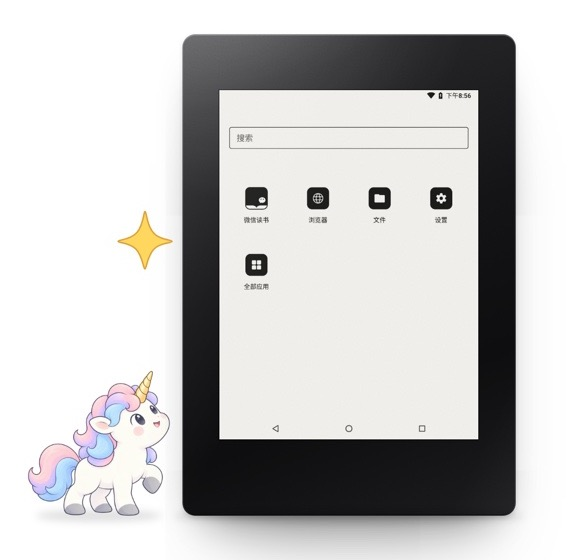
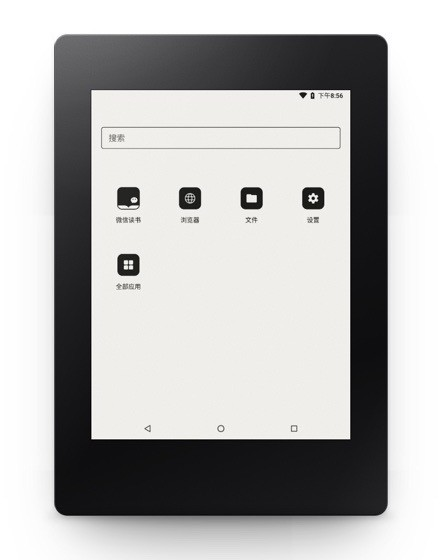
README: 发行后的内容、顶图去掉独角兽让 Kindle 居中、排版留出空间
- 最新进展表填上 v0.1.0 的发行日期；浏览器那条写明这一版保持 Chromium 128。
- 顶图去掉独角兽和星星，Kindle 居中。
- 列表项之间留空、粗体标题单独一行，长段落和安装步骤拆短，致谢按类分组。两语同样处理。
- 链接全部核过：仓库内的都在，外部地址都能打开，官网锚点都对。

diff --git a/README.en.md b/README.en.md
@@ -7,7 +7,9 @@
   </a>
 </h1>
 
-<p align="center"><b>Wake your Kindle.</b> Put Android on your Kindle, and a whole new world of reading lights up.</p>
+<p align="center"><b>Wake your Kindle.</b><br>Put Android on your Kindle, and a whole new world of reading lights up.</p>
+
+<br>
 
 <!-- The links go to /releases, not /releases/latest: GitHub's latest means the
      latest full release, so while a version is out as a pre-release it still points
@@ -26,11 +28,15 @@
   <a href="README.md">中文</a>
 </p>
 
-<p align="center"><a href="https://readom.app"><img src="docs/img/hero.jpg" alt="Readom's home screen on a Kindle Paperwhite 3, with the unicorn and a star beside it" width="380"></a></p>
+<br>
 
-The demo, the download and an illustrated install guide are on the website: **[readom.app](https://readom.app)**.
+<p align="center"><a href="https://readom.app"><img src="docs/img/hero.jpg" alt="Readom's home screen on a Kindle Paperwhite 3" width="340"></a></p>
 
-For now it runs on the Kindle Paperwhite 3 (7th generation) only, and the Kindle's own system stays.
+<br>
+
+<p align="center">The demo, the download and an illustrated install guide are on the website: <b><a href="https://readom.app">readom.app</a></b><br>For now it runs on the Kindle Paperwhite 3 (7th generation) only, and the Kindle's own system stays.</p>
+
+<br>
 
 ## Latest progress
 
@@ -38,7 +44,7 @@ For now it runs on the Kindle Paperwhite 3 (7th generation) only, and the Kindle
 
 | Release | Date | What it brought |
 |---|---|---|
-| v0.1.0 | not yet released | The first public release: Android 8.1 on the Kindle Paperwhite 3, with WeRead in one tap, the EinkBro browser, the pinyin keyboard and the sleep screen, installed and upgraded on the Kindle itself |
+| v0.1.0 | 2026‑11‑04 | The first public release: Android 8.1 on the Kindle Paperwhite 3, with WeRead in one tap, the EinkBro browser, the pinyin keyboard and the sleep screen, installed and upgraded on the Kindle itself |
 
 What each release changed, and how far it was verified on the device, is in full in [CHANGELOG.en.md](CHANGELOG.en.md); the website's [changelog](https://readom.app/#log) and [GitHub Releases](https://github.com/hbyxabc/readom/releases) are written from it.
 
@@ -50,7 +56,9 @@ Readom is an Android system made for the Kindle. It brings Android 8.1 (AOSP) to
 
 The name is Read and Freedom put together: what you read, which app you read it in, and on which device, is up to you.
 
-It started because I wanted to read WeRead, legitimately, on my Kindle, without importing books one by one and without pirated ones. After jailbreaking I tried KOReader with a WeRead plugin, and it was miserable; Tencent makes an e-ink edition, but it needs Android 7.0 or later, and every Android for the Kindle was too old. So one person, with a few weeks' worth of tokens, brought a full Android system up on a Kindle. I believe that in the age of AI, old devices gathering dust can be useful again, and Readom starts with this Kindle.
+It started because I wanted to read WeRead, legitimately, on my Kindle, without importing books one by one and without pirated ones. After jailbreaking I tried KOReader with a WeRead plugin, and it was miserable; Tencent makes an e-ink edition, but it needs Android 7.0 or later, and every Android for the Kindle was too old.
+
+So one person, with a few weeks' worth of tokens, brought a full Android system up on a Kindle. I believe that in the age of AI, old devices gathering dust can be useful again, and Readom starts with this Kindle.
 
 ## What Readom does
 
@@ -71,27 +79,50 @@ It started because I wanted to read WeRead, legitimately, on my Kindle, without 
 
 ### Features
 
-- **WeRead in one tap**: once Wi-Fi is on, the system downloads the e-ink edition from Tencent's own address, checks Tencent's signature, and installs it, with no computer involved.
-- **A newer way to browse the web**: EinkBro, an open-source browser made for e-ink, comes installed, and the web engine went from the Chromium 61 that Android 8.1 ships (2017) to Chromium 128 (2024). AOSP later published official builds that still support Android 8, up to Chromium 138 (2025); whether to move to one is not decided yet.
-- **Better first guesses in pinyin**: rime-ice took the dictionary from 65,000 entries to more than 140,000, and on the same set of 110 test inputs the first candidate went from right 84 times to right 97 times; the layout is redrawn for e-ink.
-- **Made for the Kindle's own hardware**: front light, power key, battery, Wi-Fi and USB file transfer all work; close a magnetic cover and it sleeps, open it and it wakes.
-- **Back to the Kindle any time**: hold the power key and choose "Restart to Kindle"; if the system keeps failing, it goes back to the Kindle on its own, without wiping your data.
-- **Sleep screen**: when the screen turns off, it shows a unicorn reading. It is there first because it is nice to look at, so you'd want to pick the Kindle up every time; it also covers what you were reading, since an e-ink screen keeps its last image with the power off. The theme comes from a line I love: "Reading knows no forbidden zones".
+- **WeRead in one tap**<br>
+  once Wi-Fi is on, the system downloads the e-ink edition from Tencent's own address, checks Tencent's signature, and installs it, with no computer involved.
+
+- **A newer way to browse the web**<br>
+  EinkBro, an open-source browser made for e-ink, comes installed, and the web engine went from the Chromium 61 that Android 8.1 ships (2017) to Chromium 128 (2024). AOSP later published official builds that still support Android 8, up to Chromium 138 (2025); this release stays on 128.
+
+- **Better first guesses in pinyin**<br>
+  rime-ice took the dictionary from 65,000 entries to more than 140,000, and on the same set of 110 test inputs the first candidate went from right 84 times to right 97 times; the layout is redrawn for e-ink.
+
+- **Made for the Kindle's own hardware**<br>
+  front light, power key, battery, Wi-Fi and USB file transfer all work; close a magnetic cover and it sleeps, open it and it wakes.
+
+- **Back to the Kindle any time**<br>
+  hold the power key and choose "Restart to Kindle"; if the system keeps failing, it goes back to the Kindle on its own, without wiping your data.
+
+- **Sleep screen**<br>
+  when the screen turns off, it shows a unicorn reading. It is there first because it is nice to look at, so you'd want to pick the Kindle up every time; it also covers what you were reading, since an e-ink screen keeps its last image with the power off. The theme comes from a line I love: "Reading knows no forbidden zones".
 
 <p align="center"><img src="docs/img/sleep-en.webp" width="300" alt="Sleep screen: a unicorn reading on top of the globe, with books flying around it, under the line &quot;Reading knows no forbidden zones&quot;"></p>
 
 ### Performance
 
-- **Apps install over ten times faster**: apps are compiled differently, and installing a large one like WeRead went from more than twenty minutes to about a minute and a half.
-- **Slimmed for 512 MB of memory**: it starts from AOSP's smallest product configuration with Android Go's low-memory mode on, carries no phone or camera apps, and drops the settings for hardware the device does not have; only Chinese and English fonts are kept, from 173 files and 43 MB down to 37 files and 33 MB, so the font families loaded at every start went from 116 to 15.
-- **Upgrades in five minutes**: an upgrade replaces only the system image, and installed apps and data stay as they are; the first install takes about 15 minutes, each upgrade after it about 5.
+- **Apps install over ten times faster**<br>
+  apps are compiled differently, and installing a large one like WeRead went from more than twenty minutes to about a minute and a half.
+
+- **Slimmed for 512 MB of memory**<br>
+  it starts from AOSP's smallest product configuration with Android Go's low-memory mode on, carries no phone or camera apps, and drops the settings for hardware the device does not have; only Chinese and English fonts are kept, from 173 files and 43 MB down to 37 files and 33 MB, so the font families loaded at every start went from 116 to 15.
+
+- **Upgrades in five minutes**<br>
+  an upgrade replaces only the system image, and installed apps and data stay as they are; the first install takes about 15 minutes, each upgrade after it about 5.
 
 ### Interface
 
-- **Redrawn for e-ink**: thin black lines instead of shadows and gradients, no dimming behind dialogs, no animations at all.
-- **Pages turn without a black flash**: pages turn with a refresh that does not flash, and the whole screen is cleared of ghosting only every 20 pages.
-- **Whiter, cleaner pages**: grey levels were set again from reading research and measurements of this panel, and on 11 everyday pages pure white now covers 92% to 100%.
-- **What you use is close at hand**: one home screen holds it, swipe up for all apps, the search box searches the web; one pull down and the front light slider is there.
+- **Redrawn for e-ink**<br>
+  thin black lines instead of shadows and gradients, no dimming behind dialogs, no animations at all.
+
+- **Pages turn without a black flash**<br>
+  pages turn with a refresh that does not flash, and the whole screen is cleared of ghosting only every 20 pages.
+
+- **Whiter, cleaner pages**<br>
+  grey levels were set again from reading research and measurements of this panel, and on 11 everyday pages pure white now covers 92% to 100%.
+
+- **What you use is close at hand**<br>
+  one home screen holds it, swipe up for all apps, the search box searches the web; one pull down and the front light slider is there.
 
 ## Installing Readom
 
@@ -104,18 +135,28 @@ It started because I wanted to read WeRead, legitimately, on my Kindle, without 
 
 On the wrong model or firmware, the installer shows E101 and stops without changing any file.
 
-1. Download `Readom.sh` (about 8 MB) from the website, [readom.app](https://readom.app/#pick), or from [GitHub Releases](https://github.com/hbyxabc/readom/releases) — the same file in both places. The installer carries both addresses and tries them in turn; if neither delivers, download the offline package on the computer as well, which both places also have.
+1. Download `Readom.sh` (about 8 MB): the website, [readom.app](https://readom.app/#pick), and [GitHub Releases](https://github.com/hbyxabc/readom/releases) have the same file.
+
 2. Connect the Kindle with a cable, copy the file into the `documents` folder on the Kindle drive, eject, unplug.
+
 3. Tap "Readom" in the Kindle library.
-4. Checking, downloading, verifying and writing all happen on the Kindle. A first install takes about 15 minutes (measured at 15 min 14 s on 2026-11-01, the 188 MB download and the unpacking included), then Android starts on its own.
+
+4. Checking, downloading, verifying and writing all happen on the Kindle. A first install takes about 15 minutes, then Android starts on its own.
+
+The installer carries both download addresses, the website's and GitHub's, and tries them in turn. If neither delivers, download the offline package on the computer as well (both places have it) and copy it in with `Readom.sh`.
 
 The website has an illustrated install guide, and a way to have an AI walk you through it: [readom.app/#guide](https://readom.app/#guide). Upgrades, the offline package and error codes are in the [install guide](docs/install.en.md).
 
 ### Back to the Kindle, and uninstalling
 
-- **Back to the Kindle**: hold the power key and choose "Restart to Kindle". To go back to Android, tap "Readom" in the library.
-- **If it is stuck**: hold the power key down until the screen changes (at most about 40 seconds) and you are back on the Kindle, with nothing lost.
-- **Uninstall**: delete the `android` folder and `documents/Readom.sh` from the Kindle drive. The Kindle's system and your books are untouched.
+- **Back to the Kindle**<br>
+  hold the power key and choose "Restart to Kindle". To go back to Android, tap "Readom" in the library.
+
+- **If it is stuck**<br>
+  hold the power key down until the screen changes (at most about 40 seconds) and you are back on the Kindle, with nothing lost.
+
+- **Uninstall**<br>
+  delete the `android` folder and `documents/Readom.sh` from the Kindle drive. The Kindle's system and your books are untouched.
 
 ## Building and porting
 
@@ -123,13 +164,26 @@ The website has an illustrated install guide, and a way to have an AI walk you t
 
 Readom does not flash anything. The whole system is made of these pieces:
 
-- **Started from the stock system**: after jailbreaking, the library has a "Readom" entry. Tapping it has the stock kernel load our handover module, which puts the Readom kernel and its boot parameters in memory and jumps to it. No partition is written and the bootloader is untouched, so the stock system is always one restart away.
-- **The kernel**: Amazon's published Kindle GPL source (Linux 3.0.35) with patches that add what Android 8.1 needs -- binder, ashmem, SELinux and more -- and fix the USB, power and display drivers.
-- **The system is two image files**: `system.img` and `data.img` sit on the Kindle drive, and Readom's own start program finds, checks and mounts them at boot.
-- **Android 8.1 (AOSP)**: one device directory, `device/amazon/pw3/`, and a patch series for each AOSP project it changes.
-- **The e-ink display**: there is no GPU, so the interface is composed on the CPU; our own display code decides which area to refresh, with which waveform, and how 16 grey levels map, and drives the i.MX EPDC display controller directly.
-- **No device-specific data in the package**: the panel waveforms, Wi-Fi calibration, MAC and everything else that differs from one device to the next are read from this device's stock system at every start.
-- **Installed on the Kindle**: the installer checks the model and the space, downloads, verifies against SHA-256 and writes the images, and carries on after a power loss.
+- **Started from the stock system**<br>
+  after jailbreaking, the library has a "Readom" entry. Tapping it has the stock kernel load our handover module, which puts the Readom kernel and its boot parameters in memory and jumps to it. No partition is written and the bootloader is untouched, so the stock system is always one restart away.
+
+- **The kernel**<br>
+  Amazon's published Kindle GPL source (Linux 3.0.35) with patches that add what Android 8.1 needs -- binder, ashmem, SELinux and more -- and fix the USB, power and display drivers.
+
+- **The system is two image files**<br>
+  `system.img` and `data.img` sit on the Kindle drive, and Readom's own start program finds, checks and mounts them at boot.
+
+- **Android 8.1 (AOSP)**<br>
+  one device directory, `device/amazon/pw3/`, and a patch series for each AOSP project it changes.
+
+- **The e-ink display**<br>
+  there is no GPU, so the interface is composed on the CPU; our own display code decides which area to refresh, with which waveform, and how 16 grey levels map, and drives the i.MX EPDC display controller directly.
+
+- **No device-specific data in the package**<br>
+  the panel waveforms, Wi-Fi calibration, MAC and everything else that differs from one device to the next are read from this device's stock system at every start.
+
+- **Installed on the Kindle**<br>
+  the installer checks the model and the space, downloads, verifies against SHA-256 and writes the images, and carries on after a power loss.
 
 The build environment and steps are in [CONTRIBUTING.en.md](CONTRIBUTING.en.md), and the design record of each part in [docs/README.en.md](docs/README.en.md).
 
@@ -151,9 +205,13 @@ What exactly it takes is in [porting to other models](docs/design/porting-to-oth
 ## Licence
 
 - This project's code and documentation: Apache-2.0; the full text is at the root, in [LICENSE](LICENSE).
+
 - The kernel, its patches, and the whole handover boot chain under `boot/` together with the kernel configuration (`config/android-core.config`): GPL-2.0-only. That is the overview; a few files under `boot/` say otherwise (`boot/handoff/sha256.c`, for one, is public domain).
+
 - File by file, what governs is that file's own SPDX tag and `REUSE.toml` (this repository follows [REUSE](https://reuse.software/); the licence texts are in `LICENSES/`).
+
 - Bundled third-party components (EinkBro, Chromium WebView, the pinyin dictionary and others) keep their own licences, listed in [THIRD_PARTY.en.md](THIRD_PARTY.en.md).
+
 - Neither the repository nor a release contains Amazon's private files (panel waveforms, Wi-Fi calibration, stock private modules). They are read and used only on your own device.
 
 <!-- At release: the SHA-256 fingerprint of the release certificate goes here, for readers to check against. -->
@@ -162,7 +220,15 @@ The Readom name and logo belong to this project. Readom is an unofficial project
 
 ### Thanks
 
-Readom stands on the work of these projects and communities: [AOSP](https://source.android.com/), Amazon's published Kindle GPL source, [EinkBro](https://github.com/plateaukao/einkbro), [Chromium](https://www.chromium.org/), [rime-ice](https://github.com/iDvel/rime-ice) (the pinyin dictionary), [Material Symbols](https://github.com/google/material-design-icons) (the home screen icons), [Noto Emoji](https://github.com/googlefonts/noto-emoji), [LXGW WenKai](https://github.com/lxgw/LxgwWenKai) (the title on the sleep screen), the [Contributor Covenant](https://www.contributor-covenant.org/), and [KindleModding](https://kindlemodding.org/) with the whole Kindle jailbreak community.
+Readom stands on the work of these projects and communities:
+
+- **The system**: [AOSP](https://source.android.com/), Amazon's published Kindle GPL source
+
+- **Browsing and typing**: [EinkBro](https://github.com/plateaukao/einkbro), [Chromium](https://www.chromium.org/), [rime-ice](https://github.com/iDvel/rime-ice) (the pinyin dictionary)
+
+- **Icons and fonts**: [Material Symbols](https://github.com/google/material-design-icons) (the home screen icons), [Noto Emoji](https://github.com/googlefonts/noto-emoji), [LXGW WenKai](https://github.com/lxgw/LxgwWenKai) (the title on the sleep screen)
+
+- **The community**: the [Contributor Covenant](https://www.contributor-covenant.org/), [KindleModding](https://kindlemodding.org/) and the whole Kindle jailbreak community
 
 ## Wake up the Kindles gathering dust
 
@@ -172,10 +238,19 @@ If Readom made your Kindle useful again, please give it a Star, and tell a frien
 
 If you want to join in, here is where to start:
 
-- **Something went wrong while using it**: check the [known issues](docs/known-issues.en.md) first; if it is not there, open an [Issue](https://github.com/hbyxabc/readom/issues) and include the line from "Settings > About tablet > Build number".
-- **An idea or a question**: bring it to [Discussions](https://github.com/hbyxabc/readom/discussions).
-- **You want to change the code**: pick something from the [Issues](https://github.com/hbyxabc/readom/issues) -- the ones marked `good first issue` are a good start -- read [CONTRIBUTING.en.md](CONTRIBUTING.en.md), and send a Pull Request.
-- **You have a different Kindle**: fork this repository, port it to your device following the [porting notes](docs/design/porting-to-other-models.en.md) and release your own build; once it is stable, you are welcome to bring it back here so more people can use it.
-- **Security issues**: see [SECURITY.en.md](SECURITY.en.md).
+- **Something went wrong while using it**<br>
+  check the [known issues](docs/known-issues.en.md) first; if it is not there, open an [Issue](https://github.com/hbyxabc/readom/issues) and include the line from "Settings > About tablet > Build number".
+
+- **An idea or a question**<br>
+  bring it to [Discussions](https://github.com/hbyxabc/readom/discussions).
+
+- **You want to change the code**<br>
+  pick something from the [Issues](https://github.com/hbyxabc/readom/issues) -- the ones marked `good first issue` are a good start -- read [CONTRIBUTING.en.md](CONTRIBUTING.en.md), and send a Pull Request.
+
+- **You have a different Kindle**<br>
+  fork this repository, port it to your device following the [porting notes](docs/design/porting-to-other-models.en.md) and release your own build; once it is stable, you are welcome to bring it back here so more people can use it.
+
+- **Security issues**<br>
+  see [SECURITY.en.md](SECURITY.en.md).
 
 Talking and contributing here means following the [code of conduct](CODE_OF_CONDUCT.en.md).
